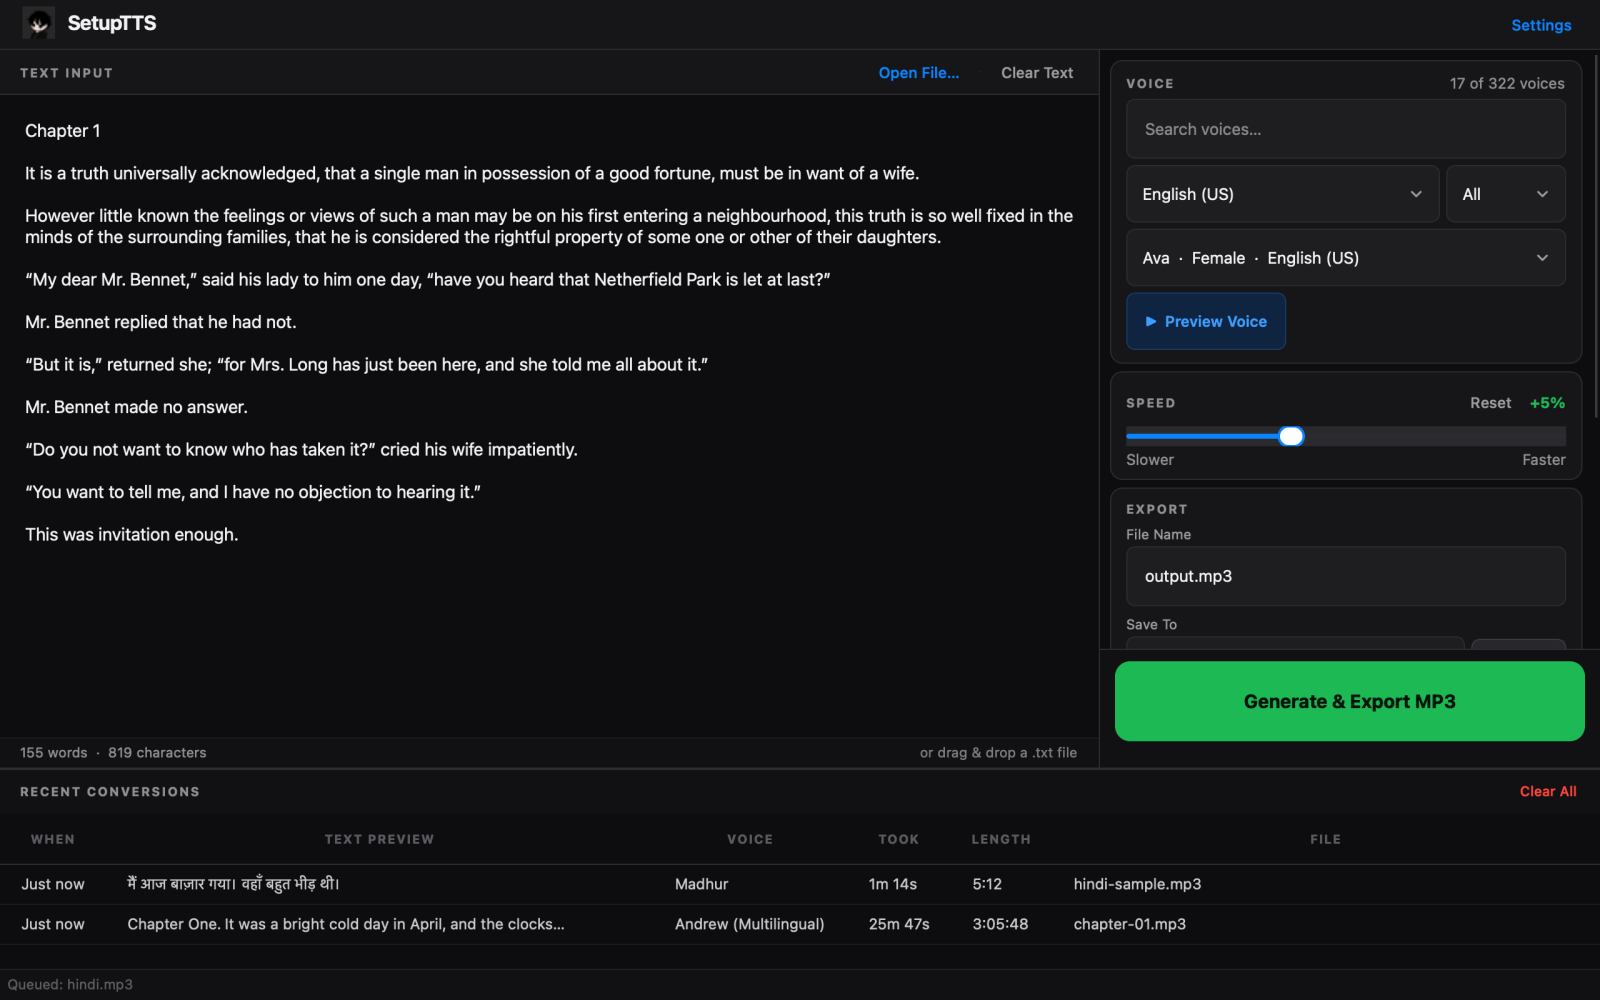
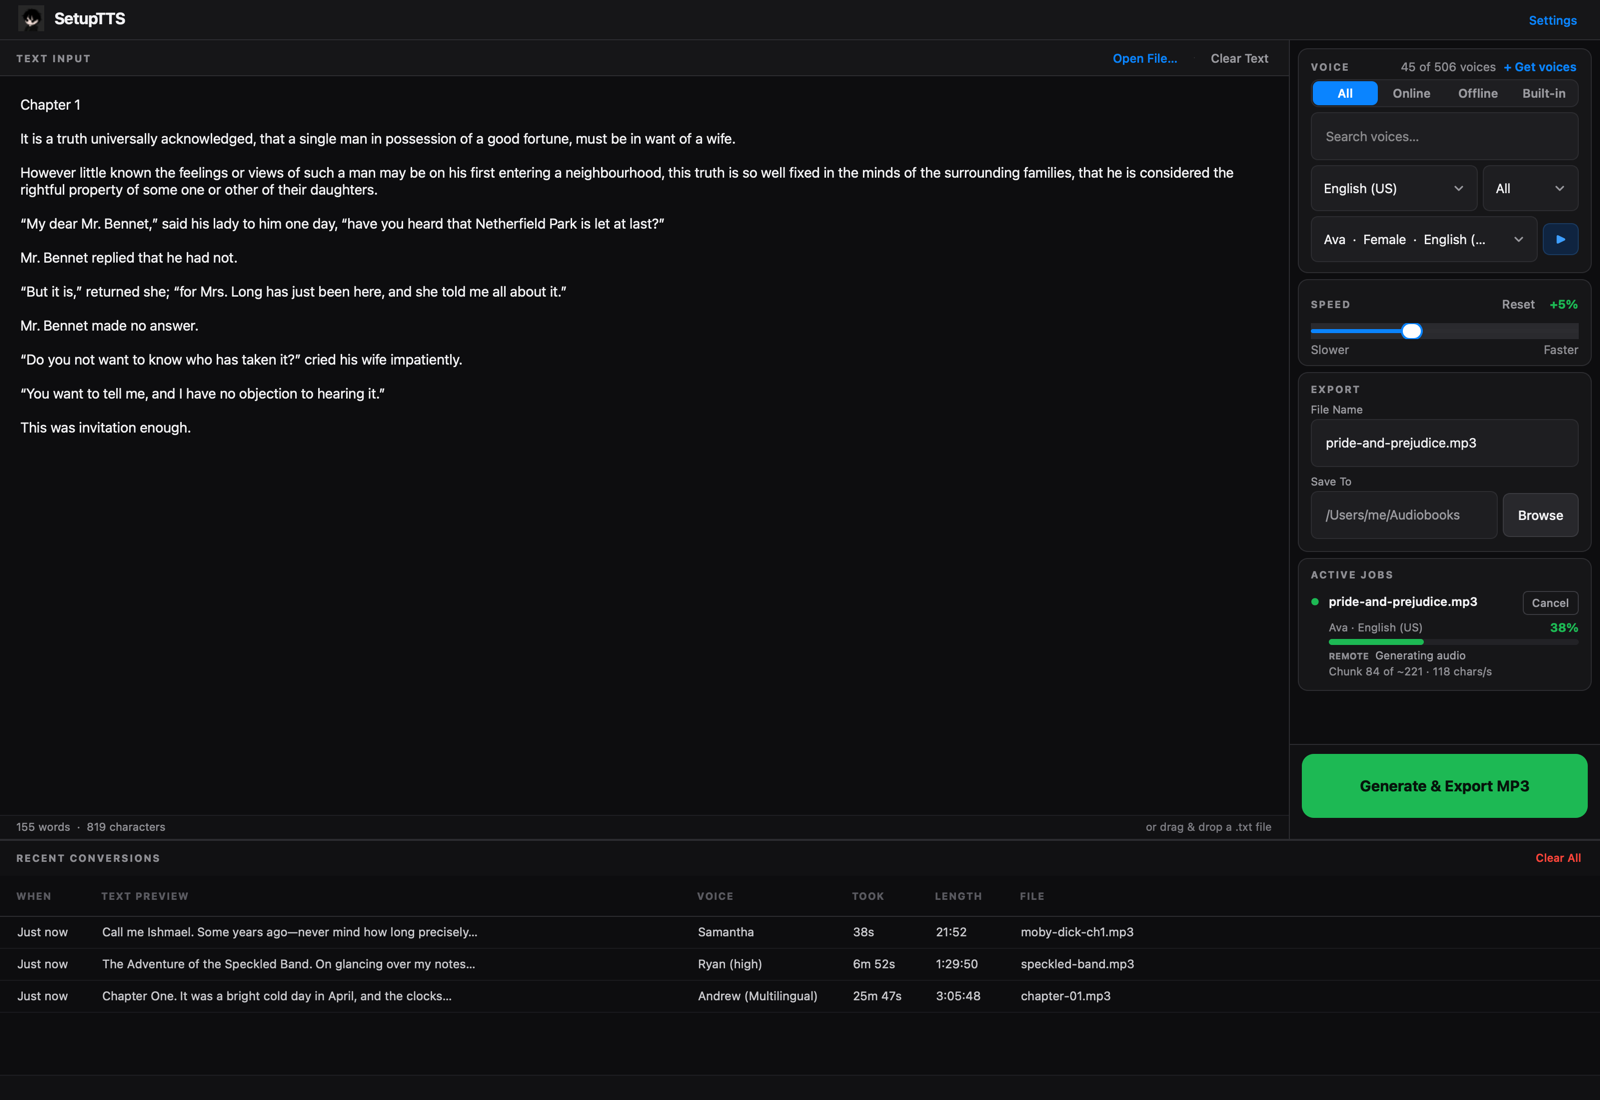
docs: README for 1.7.1 with a current screenshot
- New screenshot: voice source switch, preview button, a running job,
  and history across online, offline and built-in voices.
- Fix claims that stopped being true with offline voices (internet
  required, speed independent of CPU, single output format).
- Add sleep/outage handling and the offline speed-up; update test count.
- Remove the stale v1.6.1 line-count table and the duplicate stack table.
- stress_voices.py: --text-file runs book passages through many voices.

diff --git a/scripts/stress_voices.py b/scripts/stress_voices.py
@@ -92,6 +92,53 @@ _PIPER = [("en_US-lessac-medium", "en"), ("de_DE-thorsten-medium", "de"),
           ("es_ES-davefx-medium", "es"), ("fr_FR-siwis-medium", "fr")]
 
 
+def _book_segments(path: str, size: int) -> dict[str, str]:
+    """Start, end, and the passage with the most unusual characters."""
+    book = Path(path).read_text(encoding="utf-8-sig")
+    if len(book) <= size * 3:
+        return {"whole": book}
+
+    def at_paragraph(pos: int) -> int:
+        cut = book.rfind("\n", 0, pos)
+        return cut + 1 if cut > 0 else pos
+
+    step = max(size // 4, 1)
+    odd = max(range(0, len(book) - size, step),
+              key=lambda i: sum(not ch.isascii() for ch in book[i:i + size]))
+    starts = {"start": 0, "unusual": at_paragraph(odd), "end": at_paragraph(len(book) - size)}
+    return {name: book[i:i + size] for name, i in starts.items()}
+
+
+_BOOK_ONLINE = [
+    "en-US-AndrewNeural", "en-US-AvaNeural", "en-US-BrianNeural", "en-US-EmmaNeural",
+    "en-US-ChristopherNeural", "en-GB-SoniaNeural", "en-US-AvaMultilingualNeural",
+    "en-US-AndrewMultilingualNeural",
+]
+_BOOK_SYSTEM = ["Samantha", "Daniel", "Karen", "Moira", "Fred"]
+
+
+def _book_cases(sources: set[str], path: str, size: int, rate: str) -> list[dict]:
+    from app.services import piper_tts
+    from app.services.system_tts import list_system_voices
+
+    segments = _book_segments(path, size)
+    voices: list[tuple[str, str]] = []
+    if "online" in sources:
+        voices += [("online", v) for v in _BOOK_ONLINE]
+    if "piper" in sources and piper_tts.piper_available():
+        voices += [("piper", v["ShortName"]) for v in piper_tts.list_piper_voices()
+                   if v["Locale"].startswith("en")]
+    if "system" in sources:
+        installed = {v["ShortName"] for v in list_system_voices()}
+        for name in _BOOK_SYSTEM:
+            match = next((s for s in installed
+                          if s == f"system:{name}" or s.startswith(f"system:{name} (")), None)
+            if match:
+                voices.append(("system", match))
+    return [{"source": src, "voice": v, "kind": f"book:{seg}", "text": text, "rate": rate}
+            for src, v in voices for seg, text in segments.items()]
+
+
 def _cases(sources: set[str], long_chars: int) -> list[dict]:
     from app.services import piper_tts
     from app.services.system_tts import list_system_voices
@@ -184,6 +231,11 @@ def main() -> int:
     ap.add_argument("--long-chars", type=int, default=30_000)
     ap.add_argument("--workdir", default=str(ROOT / "stress_out" / "voices"))
     ap.add_argument("--only", default="", help="substring filter on voice/kind")
+    ap.add_argument("--text-file", default="",
+                    help="run passages of this book through every voice instead")
+    ap.add_argument("--segment-chars", type=int, default=15_000)
+    ap.add_argument("--rate", default="+0%", help="speed for --text-file runs")
+    ap.add_argument("--parallel", type=int, default=2, help="jobs at once (the app runs 2)")
     args = ap.parse_args()
 
     work = Path(args.workdir).resolve()
@@ -202,7 +254,9 @@ def main() -> int:
         setup_logging()
 
     app = QCoreApplication.instance() or QCoreApplication(sys.argv)
-    cases = _cases(set(args.sources.split(",")), args.long_chars)
+    sources = set(args.sources.split(","))
+    cases = (_book_cases(sources, args.text_file, args.segment_chars, args.rate)
+             if args.text_file else _cases(sources, args.long_chars))
     if args.only:
         cases = [c for c in cases if args.only in c["voice"] or args.only in c["kind"]]
     print(f"{len(cases)} cases", flush=True)
@@ -212,7 +266,7 @@ def main() -> int:
     pending = list(cases)
 
     def submit_next() -> None:
-        while pending and queue.running_count + queue.pending_count < 2:
+        while pending and queue.running_count + queue.pending_count < args.parallel:
             case = pending.pop(0)
             idx = cases.index(case)
             safe = case["voice"].replace(":", "_").replace("/", "_")

diff --git a/README.md b/README.md
@@ -59,8 +59,10 @@ The hard part is not calling a speech API; it is making a **multi-hour job over 
 - **Crash-safe, resumable pipeline.** Every finished section is written to a staging folder with a manifest recording its exact `[start, end)` character range and a hash of that text. Writes are atomic (unique temp file, `fsync`, rename, with retries for transient Windows file locks). After a crash, power loss or cancel, only the verified contiguous prefix is trusted, and the job continues from there.
 - **Fail-closed assembly.** Before the MP3 is written, the ranges must tile the source text exactly (no gaps, no overlaps), every chunk file must exist with the recorded size, the assembled byte count must match, and the audio length must be plausible for the text. The length check runs on a temporary file *before* it replaces anything, so a bad result can never overwrite an existing good file.
 - **Adaptive recovery.** Retries with exponential backoff and a fresh connection each time; sections that keep failing are split into smaller sub-ranges whose union must equal the original range exactly.
+- **Survives sleep and dropped Wi-Fi.** While a job runs, the computer is kept from idle-sleeping (`caffeinate` on macOS, `SetThreadExecutionState` on Windows). If the service becomes unreachable, the job probes the connection and waits up to 30 minutes for it to return, without using up retries.
+- **Fast offline voices.** Piper renders two sentences at a time with the CPU cores split between them (1.75x faster on Ryan high), capped at two runs per voice across all jobs to bound memory.
 - **Responsive UI during long work.** Generation runs on `QThread` workers with their own `asyncio` loops; the UI thread only receives throttled progress signals. Up to two jobs run concurrently with per-destination conflict checks.
-- **Tested as shipped.** 450 automated tests, including 12-hour-scale simulations and regression tests that fail on the pre-fix code. CI also launches the *packaged* apps — the macOS bundle, the app inside the DMG, the app installed by the real Windows installer, and the portable EXE — and has each one load the voice list and synthesise a verified sample.
+- **Tested as shipped.** 495 automated tests, including 12-hour-scale simulations, network-outage and sleep/wake simulations and regression tests that fail on the pre-fix code. CI also launches the *packaged* apps — the macOS bundle, the app inside the DMG, the app installed by the real Windows installer, and the portable EXE — and has each one load the voice list and synthesise a verified sample.
 
 ---
 
@@ -77,6 +79,7 @@ flowchart TB
     subgraph Jobs["Background work"]
         JQ["JobQueue<br/>2 concurrent jobs"]
         W["TTSWorker<br/>QThread + asyncio"]
+        LW["LocalTTSWorker<br/>Piper · OS voices"]
         VL["VoiceLoaderWorker"]
     end
 
@@ -91,6 +94,8 @@ flowchart TB
     IP -- text --> OP
     OP -- submit / cancel / resume --> JQ
     JQ --> W
+    JQ --> LW
+    LW -- "MP3 written as .part, then renamed" --> OUT
     W <-->|"sections ⇄ audio + sentence timing"| SVC
     VL <-->|"voice catalog"| SVC
     W -- verified sections --> CS
@@ -129,6 +134,7 @@ flowchart TD
 |---|---|
 | Connection drops in the middle of a section | Detects the missing audio, discards the attempt, requests the section again |
 | DNS failure, timeout, service returns no audio | Retries with backoff; splits stubborn sections; if it still fails, keeps finished sections and offers **Resume** |
+| Wi-Fi drops, or the computer wakes from sleep offline | Shows *Waiting for internet connection…* and continues by itself when the service is reachable again (up to 30 min) |
 | App closed or crashes mid-book | Finished sections survive on disk; **Resume Unfinished Job** continues from the first unverified section |
 | Disk full or file locked while saving | Job stops with a plain explanation and stays resumable |
 | A chunk file or the manifest is damaged | Resume trusts only the verified contiguous prefix and regenerates the rest |
@@ -140,26 +146,12 @@ flowchart TD
 
 ---
 
-## Codebase at a glance
-
-Counted with `wc -l` over tracked files at v1.6.1 (includes comments and docstrings).
-
-| Area | Files | Lines | Contents |
-|---|---:|---:|---|
-| `app/workers` | 6 | 4,734 | generation pipeline, chunk store, job queue, voice loading, preview |
-| `app/ui` | 10 | 3,942 | main window, panels, dialogs, stylesheet loader |
-| `app/services` | 4 | 1,402 | speech-service client, text profiling and voice matching, history DB |
-| `app/utils`, `app/models`, `app/config` | 12 | 1,063 | paths, logging, errors, MP3 parsing, settings, single-instance lock |
-| `app/main.py`, `app/selftest.py` | 3 | 289 | startup, packaged-build self-test |
-| **Application total** | **35** | **11,430** | Python |
-| `tests` | 12 | 3,857 | 331 tests (pytest, pytest-qt) |
-| Stylesheet | 1 | 1,078 | Qt stylesheet (dark theme) |
-| Build and CI | 7 | 1,243 | PyInstaller specs, Inno Setup installer, GitHub Actions, build scripts |
+## Built with
 
 | Layer | Technology |
 |---|---|
 | UI | PySide6 (Qt 6) — widgets, QThread, QLocalServer |
-| Speech | edge-tts over aiohttp websockets (Microsoft neural voices) |
+| Speech | edge-tts over aiohttp websockets (online); Piper on onnxruntime (offline); SAPI / OneCore and `say` (built-in) |
 | Storage | SQLite (history), JSON manifest + per-section MP3 files (resume) |
 | Packaging | PyInstaller; DMG via create-dmg; Inno Setup installer; single-file portable EXE |
 | CI/CD | GitHub Actions: tests on macOS and Windows, packaged-app self-tests, release publishing |
@@ -169,7 +161,7 @@ Counted with `wc -l` over tracked files at v1.6.1 (includes comments and docstri
 ## Using SetupTTS
 
 1. **Add text** — paste or type, **Open File…** (Ctrl/⌘+O), or drag a `.txt` file in. UTF-8, UTF-16 and ANSI files are recognised.
-2. **Choose a voice** — search by name or language; **Preview Voice** plays a sample. "(Multilingual)" voices can read mixed-language text; standard voices are more reliable for long English books.
+2. **Choose a voice** — pick **All · Online · Offline · Built-in**, search by name or language; **▶** plays a sample. **+ Get voices** downloads offline voices. "(Multilingual)" voices can read mixed-language text; standard voices are more reliable for long English books.
 3. **Speed** — −50% to +100%; **Reset** returns to normal.
 4. **Export** — file name and folder, then **Generate & Export MP3** (Ctrl/⌘+Enter).
 
@@ -177,9 +169,8 @@ Progress appears under **Active Jobs**: stage, percentage, section count, speed 
 
 ## Requirements and limitations
 
-- **Internet required.** Speech is generated by Microsoft's online service (the voices behind Edge's Read Aloud); text preparation, verification and file writing are local. The service is used without an official API agreement, so its availability can change.
-- Generation speed depends on the service and your connection, not your CPU — low CPU use while generating is expected.
-- Output is 24 kHz, 48 kbit/s mono MP3 (the format the service provides).
+- **Online voices need internet.** They come from Microsoft's service (the voices behind Edge's Read Aloud), used without an official API agreement, so availability can change. Their speed depends on the service, not your CPU. Offline and built-in voices work without internet and use the CPU.
+- Output: online voices 24 kHz, 48 kbit/s mono MP3; offline and built-in voices 22 kHz, 64 kbit/s mono MP3.
 - macOS 15 or later on Apple Silicon (the bundled Qt requires it); Windows 10/11, 64-bit.
 
 ## Troubleshooting
@@ -229,6 +220,13 @@ pip install pytest pytest-qt
 QT_QPA_PLATFORM=offscreen pytest -q
 ```
 
+### Stress-test real voices
+
+```bash
+python scripts/stress_voices.py                                   # every voice source, hostile text
+python scripts/stress_voices.py --text-file book.txt --rate +100%  # passages of a book through many voices
+```
+
 ### Check a packaged build
 
 ```bash
@@ -265,15 +263,6 @@ GitHub Actions checks that the tag matches `APP_VERSION`, runs the test suite, b
 - `SetupTTS-Windows-Installer.exe`
 - `SetupTTS-Windows-Portable.zip`
 
-### Stack
-
-| Layer | Technology |
-|-------|-----------|
-| UI | PySide6 (Qt 6) |
-| TTS | edge-tts (Microsoft Neural TTS) |
-| Storage | SQLite (job history) |
-| Packaging | PyInstaller |
-
 ### Project structure
 
 ```
@@ -282,6 +271,7 @@ setuptts/
 ├── setuptts.spec              ← PyInstaller spec (macOS app / Windows onedir)
 ├── setuptts_portable.spec     ← PyInstaller spec (Windows portable EXE)
 ├── release_notes/             ← one file per release, used by CI
+├── scripts/                   ← stress tests against the real voices
 ├── requirements.txt
 ├── build_macos.sh             ← macOS release build script
 ├── build_windows.ps1          ← Windows release build (PowerShell)
